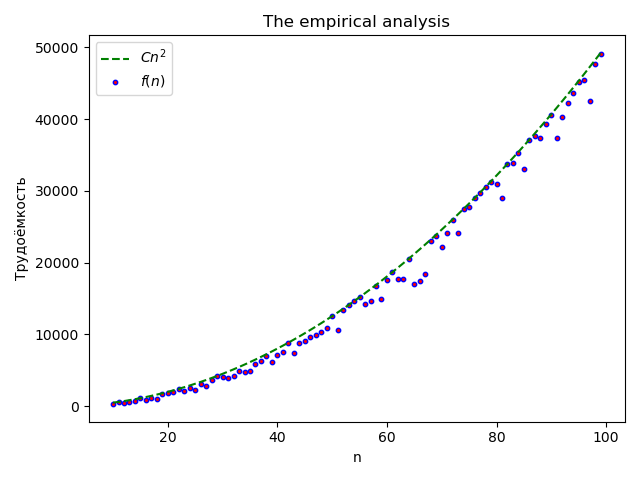
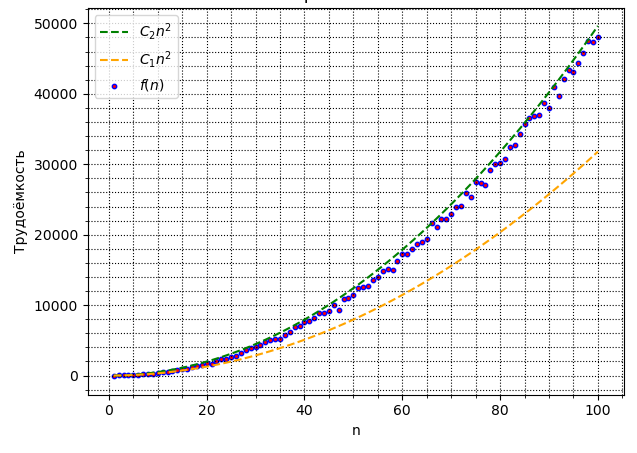
Empirical analysis is done

Changed region(s): [[0.0, 0.0, 0.9843, 0.9272], [0.5369, 0.9272, 0.5667, 0.9581]]

diff --git a/main.py b/main.py
@@ -1,8 +1,8 @@
 import sys
 import random
-import time
 import matplotlib.pyplot as plt
 import numpy as np
+
 
 
 class Algorithm_Dijkstra:
@@ -82,10 +82,10 @@ def print_result(distance, start_node):
             print(f"{start_node} > {i} = маршрут недоступен")
 
 
-RANGE_n = (10, 100)
+RANGE_n = (1, 101)
 
 
-def _show_empirical_f(empirical_f, C1, C2):
+def _show_empirical_f_with_asymptotic(empirical_f, C1, C2):
     # Show Omega(n), O(n^2), empirical_f
     x = np.arange(*RANGE_n)
     lowerAsymptotic = C1 * x ** 2
@@ -94,7 +94,6 @@ def _show_empirical_f(empirical_f, C1, C2):
     ax.plot(x, upperAsymptotic, color="green", linestyle='--', label="$C_2n^2$")
     ax.scatter(x, empirical_f, marker='o', s=10, c="red", edgecolor='b', label="$f(n)$")
     ax.plot(x, lowerAsymptotic, color="orange", linestyle='--', label="$C_1n^2$")
-    ax.set_title('Эмпирический анализ')
     ax.set_xlabel("n")
     ax.set_ylabel("Трудоёмкость")
     ax.minorticks_on()
@@ -107,14 +106,32 @@ def _show_empirical_f(empirical_f, C1, C2):
     ax.legend()
 
     plt.show()
-    fig.savefig(f'empirical_analysis-test'
-                f'png')
+    fig.savefig(f'empirical_analysis.png')
+
+
+def _show_empirical_f(empirical_f):
+    x = np.arange(*RANGE_n)
+    fig, ax = plt.subplots()
+    ax.scatter(x, empirical_f, marker='o', s=10, c="red", edgecolor='b', label="$f(n)$")
+    ax.set_xlabel("n")
+    ax.set_ylabel("Трудоёмкость")
+    ax.minorticks_on()
+    ax.grid(which='major',
+            color='k',
+            linestyle=':')
+    ax.grid(which='minor',
+            color='k',
+            linestyle=':')
+    ax.legend()
+
+    plt.show()
+    fig.savefig(f'empirical_f.png')
 
 
 def empirical_analysis():
     Dijkstra = Algorithm_Dijkstra()
     range_n = RANGE_n
-    m = 10
+    m = 100
 
     # get empirical f
     f = [None] * (range_n[1] - range_n[0])
@@ -124,6 +141,15 @@ def empirical_analysis():
             Graph, start_node = Dijkstra.generate_data(n)
             _, f_on_n[j] = Dijkstra.algorithm(Graph, start_node)
         f[i] = sum(f_on_n) / m
+    _show_empirical_f(f)
+
+    # For showing of table
+    with open('data.txt', 'w') as data:
+        for n in range(*range_n):
+            data.write(f"{n}\t")
+        data.write('\n')
+        for f_i in f:
+            data.write(f"{str(f_i).replace('.',',')}\t")
 
     # Search constants: C1 and C2
     n = np.arange(*range_n)
@@ -137,7 +163,7 @@ def empirical_analysis():
             print('n0:', n[i])
             print('C1:', C1)
             print('C2:', C2)
-            _show_empirical_f(f, C1, C2)
+            _show_empirical_f_with_asymptotic(f, C1, C2)
             return True
     return False
 
